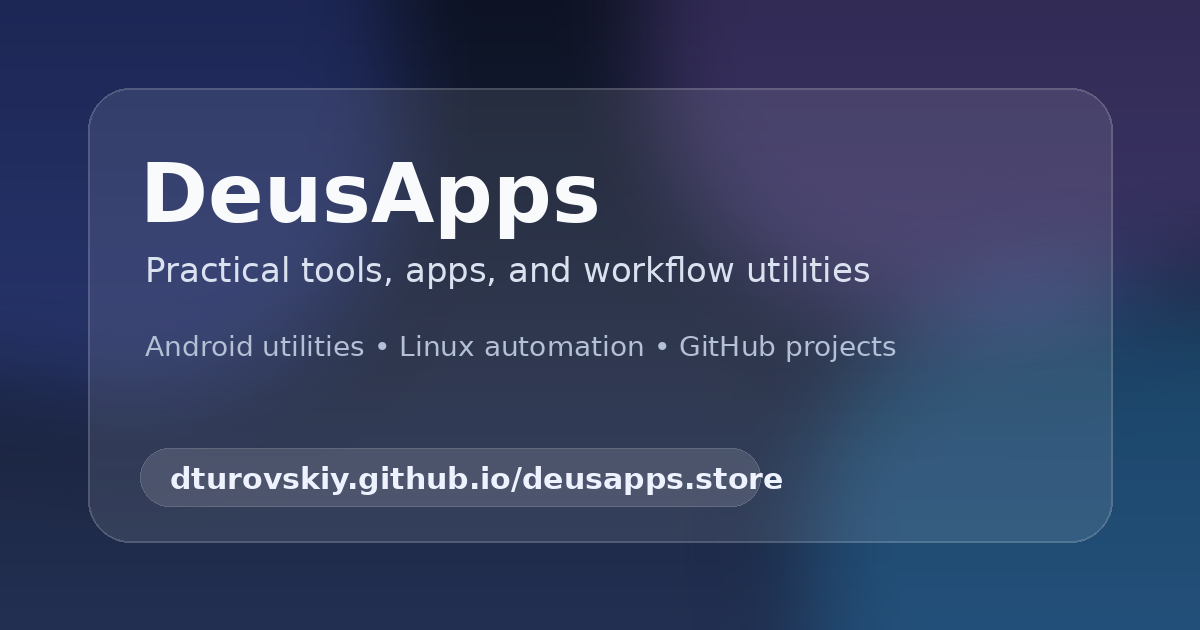
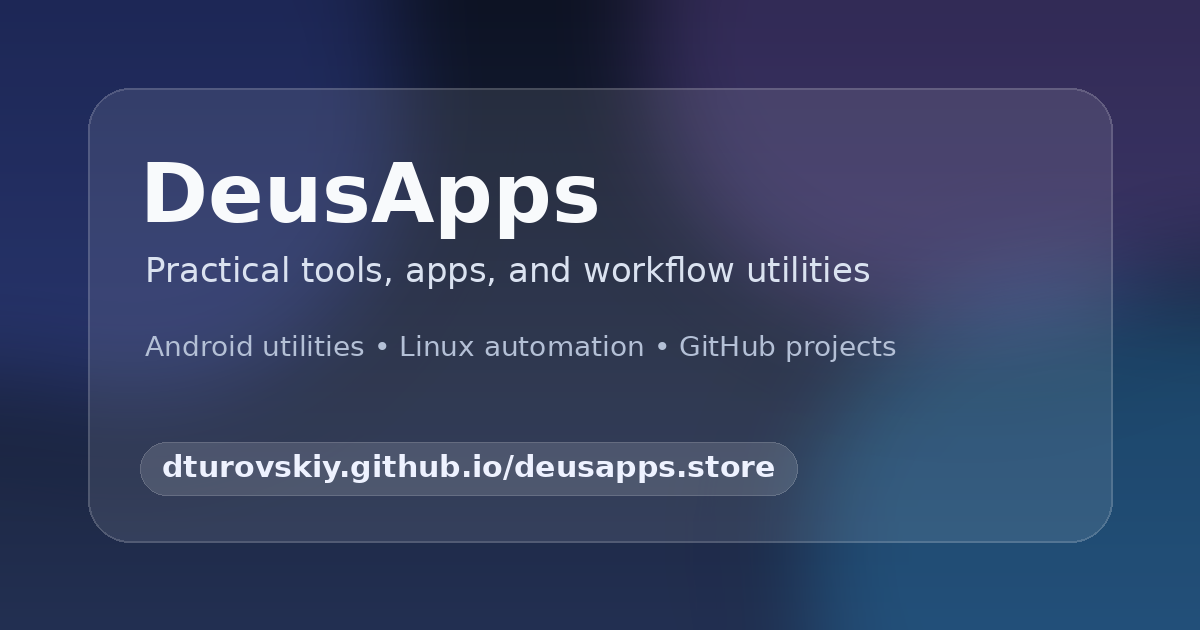
Fix social preview URL pill alignment

Changed region(s): [[0.0925, 0.6937, 0.6783, 0.8143]]

diff --git a/index.html b/index.html
@@ -11,14 +11,14 @@
   <meta property="og:title" content="DeusApps — Practical tools, apps, and workflow utilities">
   <meta property="og:description" content="Personal project hub for Android utilities, Linux automation, GitHub projects, downloads, and public profiles.">
   <meta property="og:url" content="https://dturovskiy.github.io/deusapps.store/">
-  <meta property="og:image" content="https://dturovskiy.github.io/deusapps.store/assets/og/deusapps-preview.png?v=link-preview-v18">
-  <meta property="og:image:secure_url" content="https://dturovskiy.github.io/deusapps.store/assets/og/deusapps-preview.png?v=link-preview-v18">
+  <meta property="og:image" content="https://dturovskiy.github.io/deusapps.store/assets/og/deusapps-preview.png?v=link-preview-v19">
+  <meta property="og:image:secure_url" content="https://dturovskiy.github.io/deusapps.store/assets/og/deusapps-preview.png?v=link-preview-v19">
   <meta property="og:image:width" content="1200">
   <meta property="og:image:height" content="630">
   <meta name="twitter:card" content="summary_large_image">
   <meta name="twitter:title" content="DeusApps — Practical tools, apps, and workflow utilities">
   <meta name="twitter:description" content="Personal project hub for Android utilities, Linux automation, GitHub projects, downloads, and public profiles.">
-  <meta name="twitter:image" content="https://dturovskiy.github.io/deusapps.store/assets/og/deusapps-preview.png?v=link-preview-v18">
+  <meta name="twitter:image" content="https://dturovskiy.github.io/deusapps.store/assets/og/deusapps-preview.png?v=link-preview-v19">
   <meta name="theme-color" content="#07111f">
   <link rel="icon" type="image/svg+xml" href="images/favicon.svg">
   <link rel="stylesheet" href="styles.css?v=qr-layout-smooth-1">
